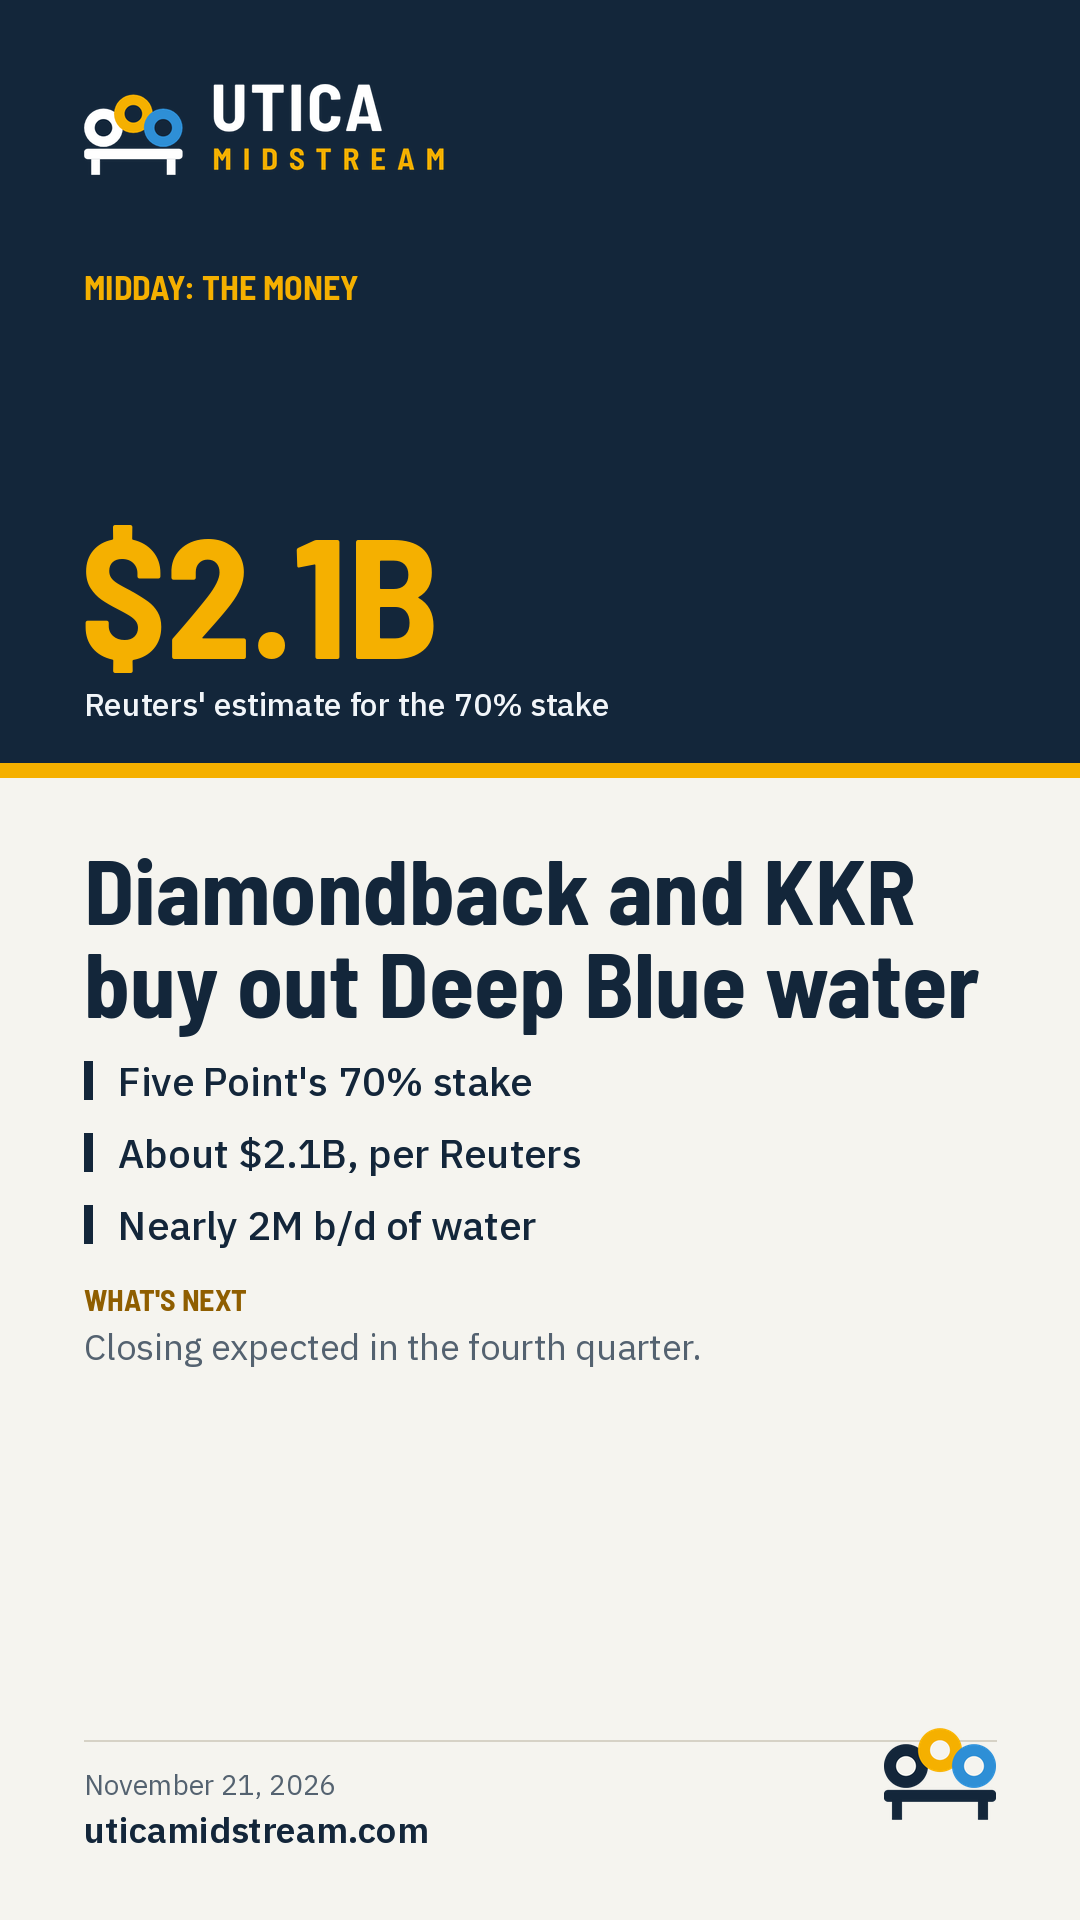
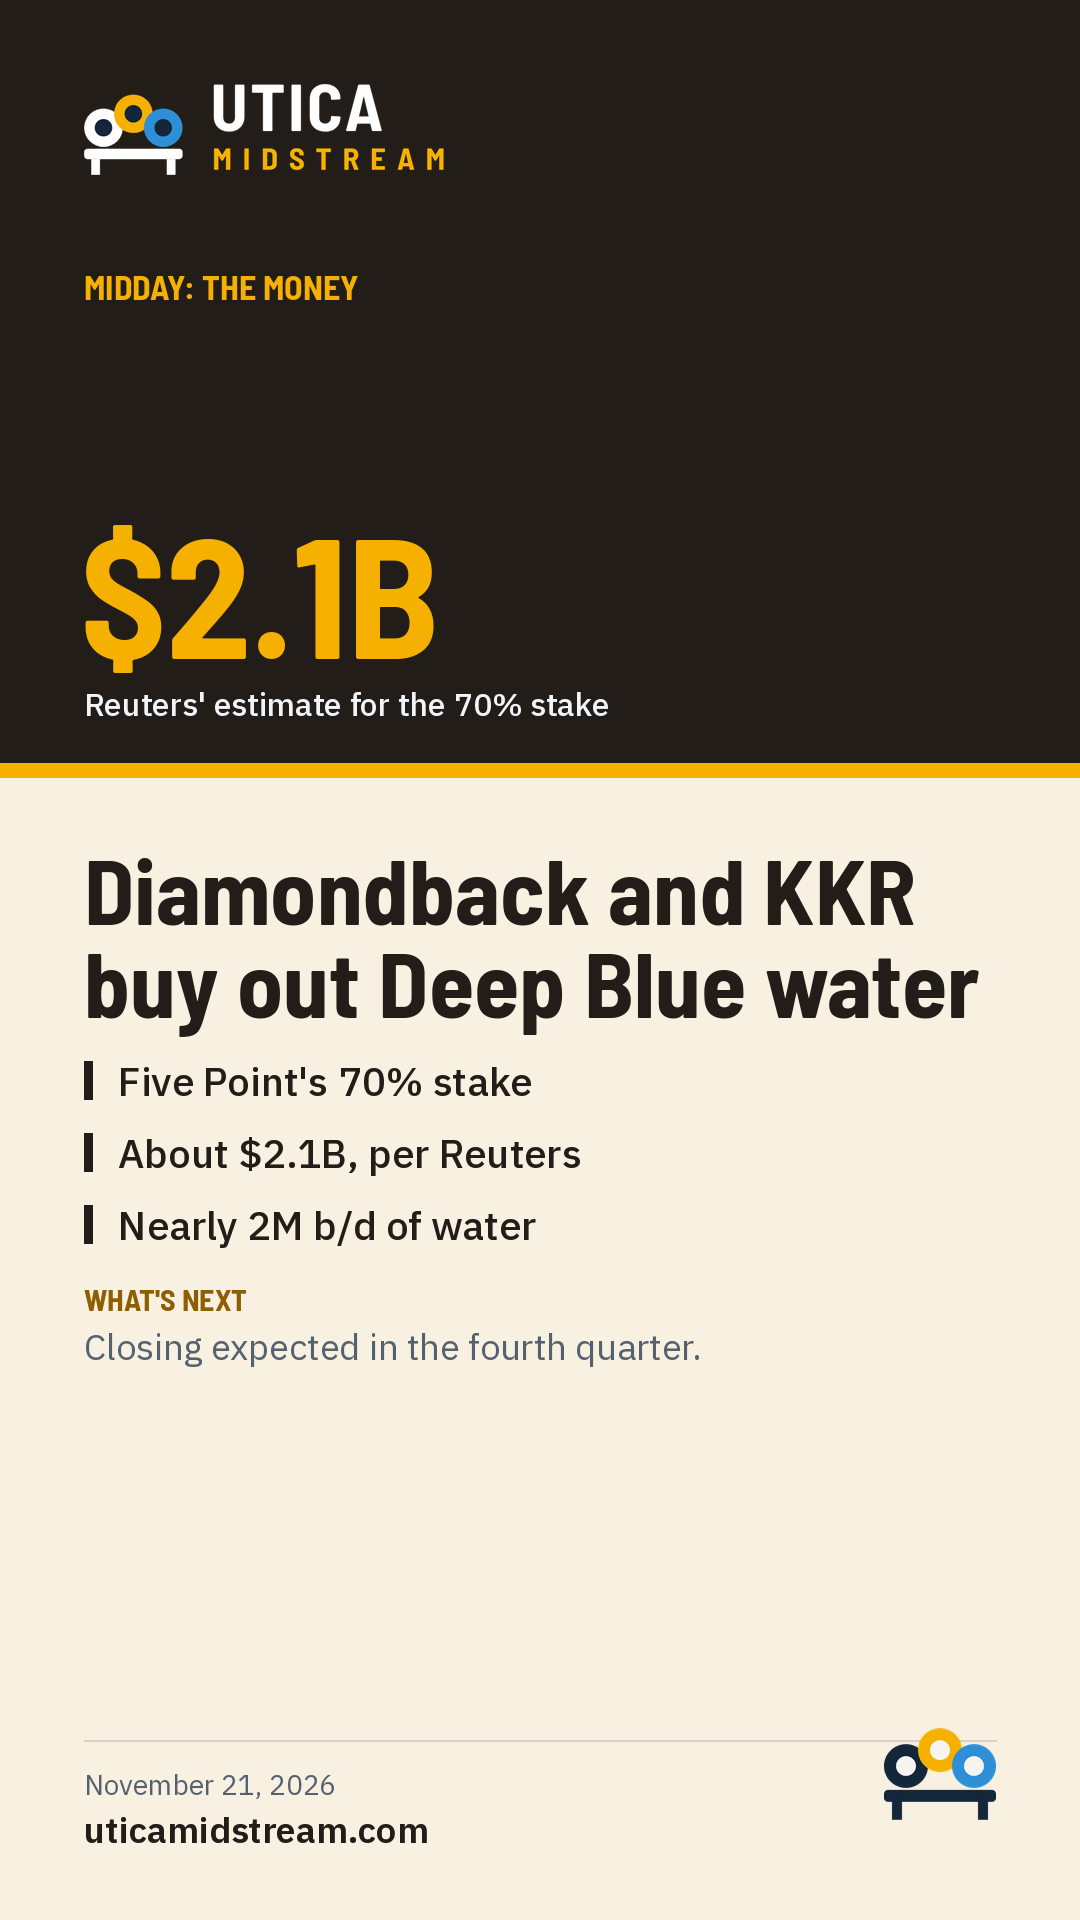
Social graphics: rotate four palettes by date and slot on top of the six layouts
Claude-Session: https://claude.ai/code/session_01VeWbxtTu1rEdhHHoASku2x

diff --git a/tools/build.py b/tools/build.py
@@ -307,10 +307,10 @@ def money_b(d, s, W, H, pad):
 def world_a(d, s, W, H, pad):
     im = Image.new("RGB", (W, H), NAVY); dr = ImageDraw.Draw(im)
     bh = 300 + pad
-    dr.rectangle((0, 0, W, bh), fill=GAS)
+    dr.rectangle((0, 0, W, bh), fill=BAND)
     for k in range(1, 7):  # latitude lines
-        yy = int(bh * k / 7); dr.line((0, yy, W, yy), fill=(84, 158, 218), width=2)
-    paste(im, LOCK_W, M, M, 420)
+        yy = int(bh * k / 7); dr.line((0, yy, W, yy), fill=tuple(min(255, c + 26) for c in BAND), width=2)
+    paste(im, LOCK_N if BAND == AMB else LOCK_W, M, M, 420)
     dr.text((M, bh - 74), s["kicker"].upper(), font=F(HEAD, 40), fill=NAVY)
     y = bh + 64
     y = headline(dr, s["headline"], M, y, W - 2 * M, (100, 88, 76), WHITE) + 44
@@ -332,7 +332,7 @@ def world_a(d, s, W, H, pad):
 def world_b(d, s, W, H, pad):
     im = Image.new("RGB", (W, H), NAVY2); dr = ImageDraw.Draw(im)
     for x in range(-H, W, 90):  # faint meridian hatching
-        dr.line((x, 0, x + H // 3, H), fill=(33, 60, 89), width=2)
+        dr.line((x, 0, x + H // 3, H), fill=tuple(min(255, c + 6) for c in NAVY2), width=2)
     y = M + 20 + pad
     dr.text((M, y), s["kicker"].upper(), font=F(HEAD, 38), fill=WATER); y += 60
     dr.rectangle((M, y, M + 120, y + 10), fill=AMB); y += 50
@@ -353,8 +353,26 @@ def world_b(d, s, W, H, pad):
 
 LAYOUTS = {"morning": (flow_a, flow_b), "midday": (money_a, money_b), "evening": (world_a, world_b)}
 
+# Palettes (Raj, Nov 21, 2026: mix the colors daily). Each palette swaps the dark grounds, the paper and the
+# evening band; brand amber stays the pipeline marker. Layout alternates by date and the palette shifts by date
+# and slot: every slot changes color each day, a slot repeats its exact look only every eight days, and the
+# three slots of a day never share a palette.
+PALETTES = {
+    "navy":      dict(NAVY=(19, 38, 58), NAVY2=(28, 53, 80), PAPER=(245, 244, 239), LINE=(45, 75, 106), BAND=(62, 142, 208)),
+    "deepwater": dict(NAVY=(8, 46, 62), NAVY2=(12, 62, 80), PAPER=(232, 242, 246), LINE=(34, 88, 108), BAND=(46, 143, 214)),
+    "steel":     dict(NAVY=(24, 30, 38), NAVY2=(36, 44, 54), PAPER=(238, 240, 242), LINE=(60, 72, 86), BAND=(245, 176, 0)),
+    "crude":     dict(NAVY=(34, 29, 24), NAVY2=(48, 41, 33), PAPER=(248, 240, 225), LINE=(82, 70, 56), BAND=(245, 176, 0)),
+}
+PAL_ORDER = list(PALETTES)
+BAND = PALETTES["navy"]["BAND"]
+SLOT_K = {"morning": 0, "midday": 1, "evening": 2}
+
 def card(d, s, slot, W, H, path, pad=0):
-    k = datetime.strptime(d["date"], "%Y-%m-%d").toordinal() % 2
+    n = datetime.strptime(d["date"], "%Y-%m-%d").toordinal()
+    k = n % 2
+    pal = s.get("design", {}).get("palette")
+    pal = pal if pal in PALETTES else PAL_ORDER[(n + n // 4 + SLOT_K[slot]) % len(PAL_ORDER)]
+    globals().update(PALETTES[pal])
     im, end = LAYOUTS[slot][k](d, s, W, H, pad)
     im.save(path, optimize=True)
     return end

diff --git a/CLAUDE.md b/CLAUDE.md
@@ -26,7 +26,7 @@ Brief ids "money" and "world" must exist.
 - Events: keep upcoming industry events in date order, drop past ones, add new ones when announced (official site first). Keep Produced Water Society events listed.
 - Docket: keep items until a week after they pass; add new decisions with status as reported.
 - Every fact sourced, dated and linked. Paraphrase; at most one short quote per source. No em or en dashes as punctuation. Plain, direct, human prose. Politically neutral. General information, not investment advice.
-- Social variety (Raj, Nov 21, 2026: posts must not look copy and paste). The builder rotates six layouts: morning (pipeline schematic or chain bar), midday (light paper big number or navy number block), evening (blue world band or quote style), alternating by date, so do not hand edit graphics. Captions must vary too: never reuse the same structure two posts running. Rotate openings (a number, a place, a company, a question the reader is asking, a plain statement of what changed), lengths (two lines to three short paragraphs), and the closing line (a takeaway, what to watch with a date, a who-is-affected line, or none). Do not reuse stock phrases such as "Across the chain:" or always end with "More: uticamidstream.com"; vary the link line ("Full edition", "Details and sources", "Prices and the full read", or the link alone). Points on the card and caption wording should not repeat each other word for word. Check the previous three days of captions before writing.
+- Social variety (Raj, Nov 21, 2026: posts must not look copy and paste). The builder rotates six layouts: morning (pipeline schematic or chain bar), midday (light paper big number or navy number block), evening (blue world band or quote style), alternating by date, and four palettes (navy, deepwater, steel, crude) that shift by date and slot, so every slot changes color each day, the three slots of a day never share a palette, and a slot repeats its exact look only every eight days. Optional per slot override "design": {"palette": "..."} only to break an accidental repeat. Do not hand edit graphics. Captions must vary too: never reuse the same structure two posts running. Rotate openings (a number, a place, a company, a question the reader is asking, a plain statement of what changed), lengths (two lines to three short paragraphs), and the closing line (a takeaway, what to watch with a date, a who-is-affected line, or none). Do not reuse stock phrases such as "Across the chain:" or always end with "More: uticamidstream.com"; vary the link line ("Full edition", "Details and sources", "Prices and the full read", or the link alone). Points on the card and caption wording should not repeat each other word for word. Check the previous three days of captions before writing.
 - Social headline under 60 chars, points under 40, caption under 600 with 4 to 6 hashtags; caption first paragraph is the page description (under 300 chars). Morning post is written for a US reader; midday and evening for a global reader.
 
 ## Brand
